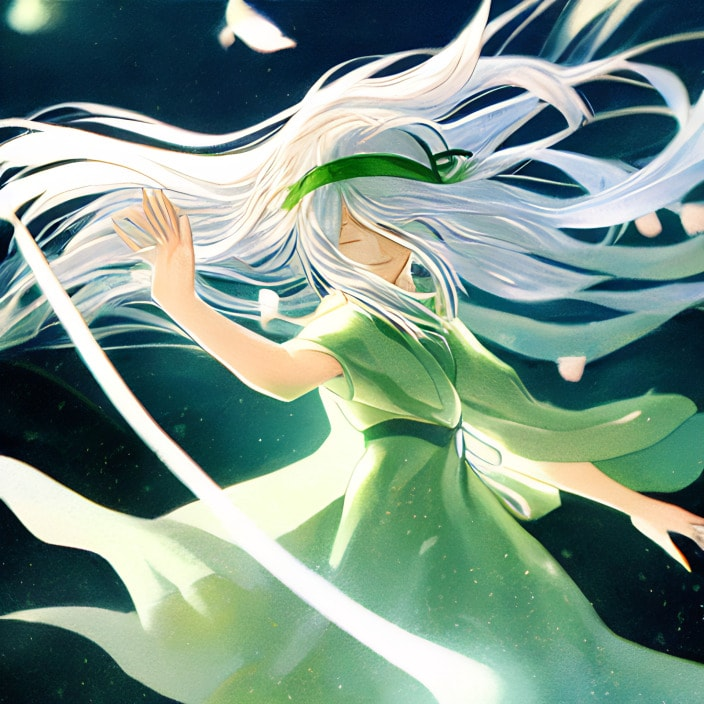
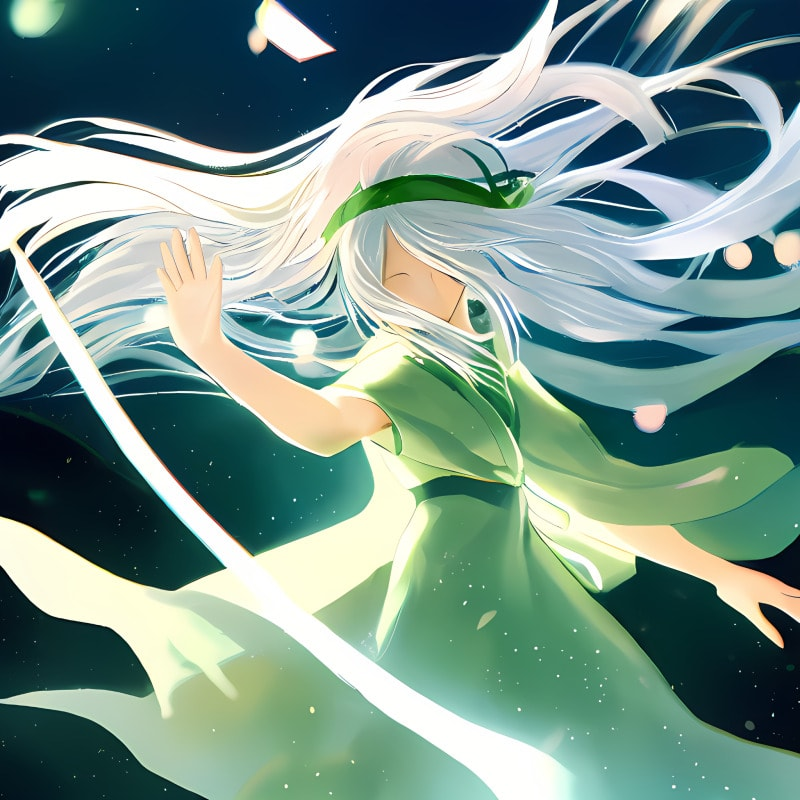
Minor revisions

diff --git a/content/framework.html b/content/framework.html
@@ -424,16 +424,13 @@ span:lang(lat) { font-style: italic; }
 
 .music-track {
   display: flex;
-  gap: 0.5em;
+  column-gap: 0.5em;
   align-items: center;
 }
 .music-track img {
   inline-size: 4.75em;
   block-size: 4.75em;
   object-fit: cover;
-}
-.music-track > div {
-  block-size: fit-content;
 }
 .music-track .orig-title {
   font-size: 0.75em;